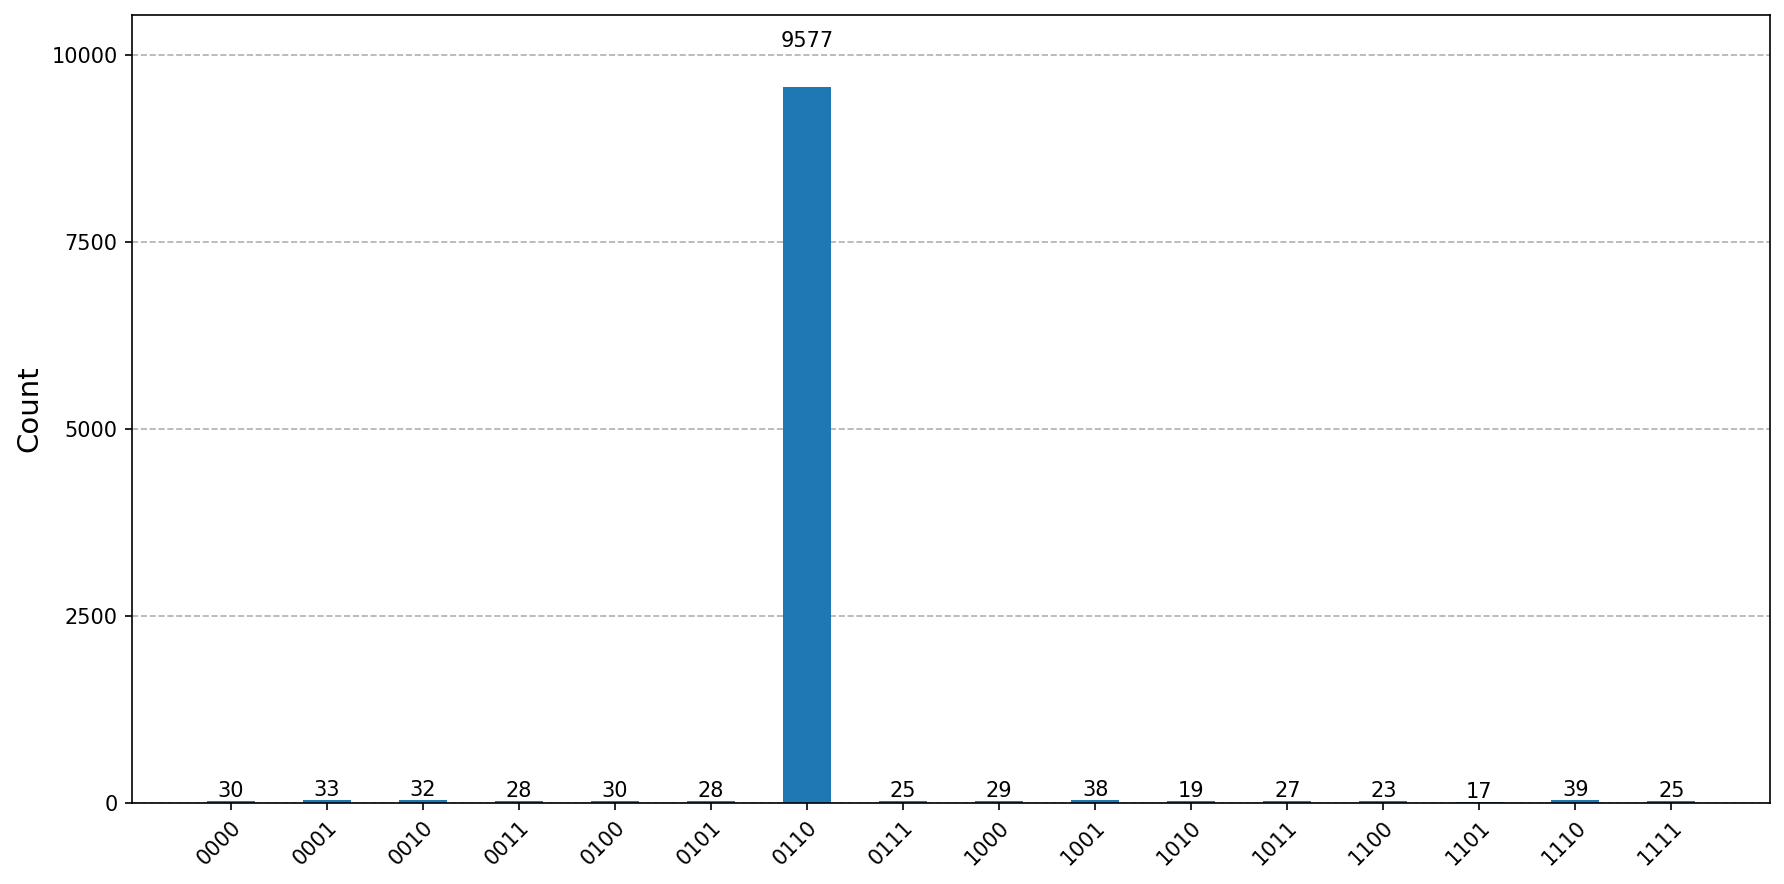
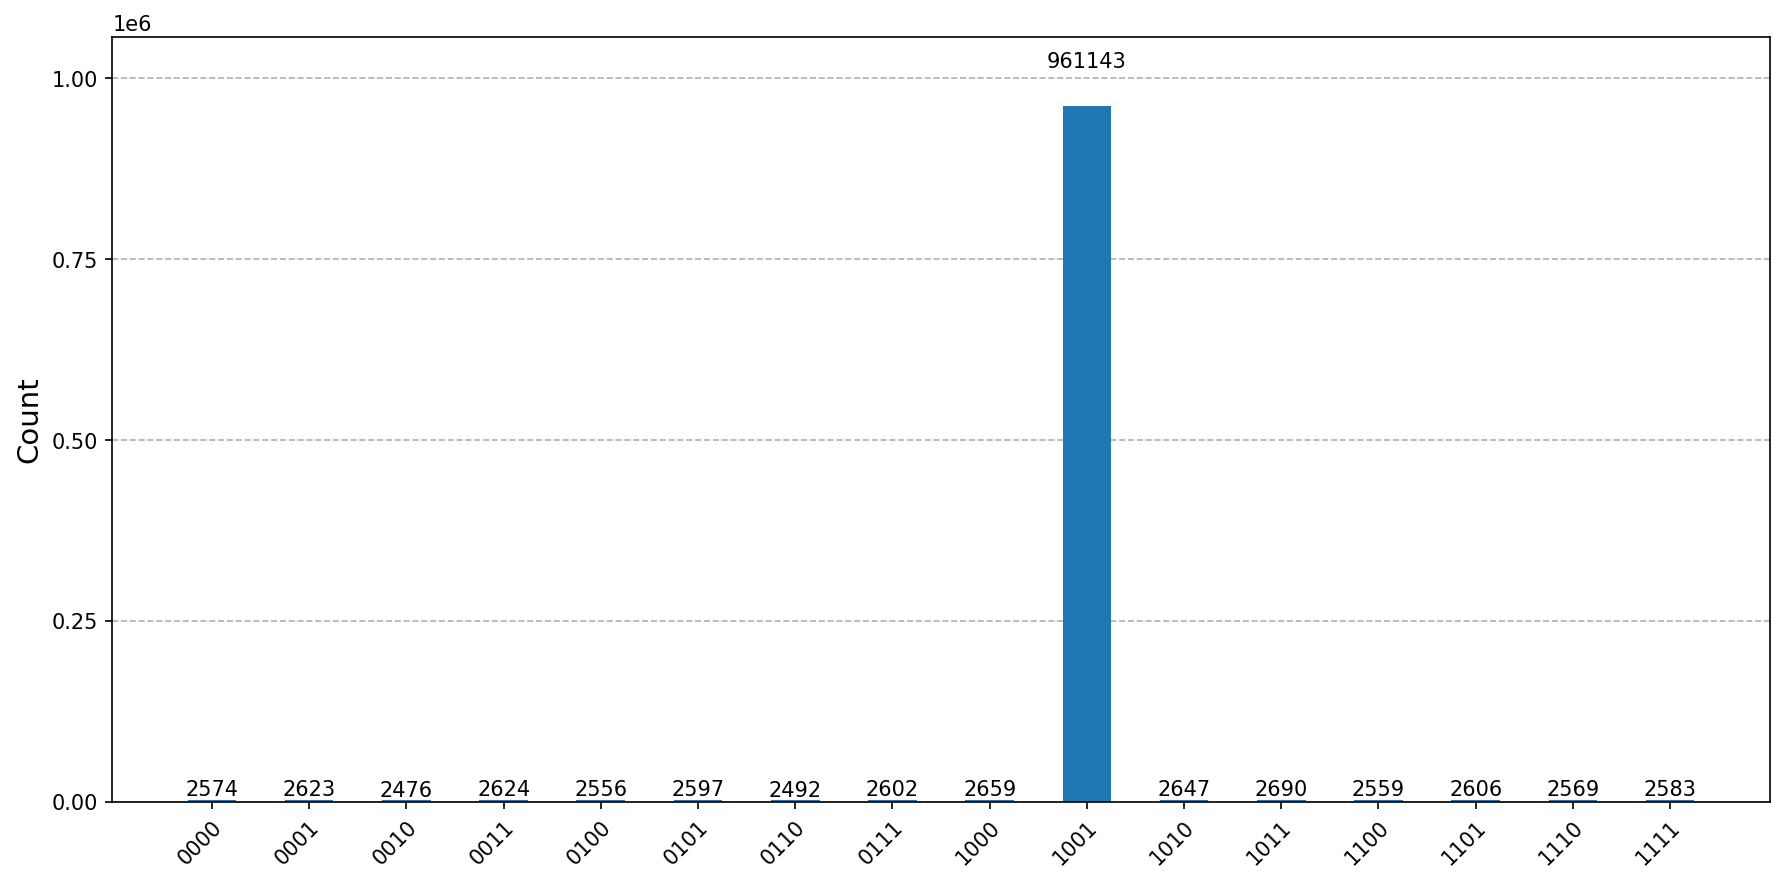
running on ibm

diff --git a/Code/lights_out/quantum/main.py b/Code/lights_out/quantum/main.py
@@ -1,4 +1,5 @@
 import math
+import os
 import numpy as np
 from pathlib import Path
 from qiskit import ClassicalRegister, QuantumCircuit, QuantumRegister, transpile
@@ -7,6 +8,16 @@ import matplotlib.pyplot as plt
 from qiskit.visualization import plot_histogram
 from qiskit.circuit.library import grover_operator
 from qiskit_quantuminspire import cqasm as qi_cqasm
+from qiskit_ibm_runtime import QiskitRuntimeService, Sampler
+from qiskit_ibm_runtime.fake_provider import FakeFez, FakeTorino, FakeMarrakesh
+from qiskit.transpiler import generate_preset_pass_manager
+from dotenv import load_dotenv
+
+# load_dotenv()
+# QiskitRuntimeService.save_account(
+#     token=os.environ["API_KEY"],
+#     instance=os.environ["CRN"],
+# )
 
 
 def export_cqasm(
@@ -71,7 +82,7 @@ def generate_conditions(size):
     return conditions
 
 
-def create_lights_out_circuit(size, initial_state, optimal_num_iterations=3):
+def create_lights_out_circuit(size, initial_state, num_iterations=3):
     """
     Create a quantum circuit for solving Lights Out game using Grover's algorithm.
 
@@ -79,7 +90,7 @@ def create_lights_out_circuit(size, initial_state, optimal_num_iterations=3):
         size: The size of the grid (e.g., 2 for a 2x2 grid, 3 for 3x3, etc.)
         initial_state: List of 0s and 1s representing initial light configuration
                       (0 = light off, 1 = light on)
-        optimal_num_iterations: Number of Grover iterations (default: 3)
+        num_iterations: Number of Grover iterations (default: 3)
 
     Returns:
         Tuple of (quantum_circuit, var_qubits, cbits)
@@ -110,7 +121,7 @@ def create_lights_out_circuit(size, initial_state, optimal_num_iterations=3):
 
     # Create Grover operator
     grover_op = grover_operator(
-        oracle, reflection_qubits=var_qubits, insert_barriers=True
+        oracle, reflection_qubits=var_qubits, insert_barriers=False
     )
 
     # Build the main quantum circuit
@@ -129,7 +140,7 @@ def create_lights_out_circuit(size, initial_state, optimal_num_iterations=3):
     qc.h(output_qubit)
 
     # Apply Grover iterations
-    qc.compose(grover_op.power(optimal_num_iterations), inplace=True)
+    qc.compose(grover_op.power(num_iterations), inplace=True)
 
     # Measure the variable qubits
     qc.measure(var_qubits, cbits)
@@ -156,14 +167,14 @@ def create_circuit_from_matrix(initial_state_matrix):
     initial_state = state_array.flatten()
 
     # Calculate optimal number of Grover iterations
-    # optimal_num_iterations = math.floor(
+    # num_iterations = math.floor(
     #     math.pi / (4 * math.asin(1 / math.sqrt(2 ** (size**2))))
     # )
-    optimal_num_iterations = 3
+    num_iterations = 3
 
     # Create the circuit
     qc, var_qubits, cbits = create_lights_out_circuit(
-        size, initial_state, optimal_num_iterations
+        size, initial_state, num_iterations
     )
 
     # Print circuit statistics
@@ -174,7 +185,7 @@ def create_circuit_from_matrix(initial_state_matrix):
     print(f"Grid size: {size}x{size}")
     print(f"Total qubits required: {total_qubits} ({n} var + {n} temp + 1 output)")
     print(f"Total gates in circuit: {num_gates}")
-    print(f"Optimal Grover iterations: {optimal_num_iterations}")
+    print(f"Grover iterations: {num_iterations}")
 
     return qc, var_qubits, cbits, size
 
@@ -193,6 +204,28 @@ def run_circuit(qc, shots=10000):
     sampler = StatevectorSampler()
     result = sampler.run([qc], shots=shots).result()
     counts = result[0].data.cbits.get_counts()
+
+    return counts
+
+
+def run_on_ibm_simulator(qc, shots=10000):
+    """
+    Run a quantum circuit on an IBM fake simulator
+
+    Args:
+        qc: QuantumCircuit to run
+        shots: Number of measurement shots
+
+    Returns:
+        Measurement counts (dict)
+    """
+    backend = FakeMarrakesh()
+
+    transpiled = transpile(qc, backend=backend, optimization_level=3)
+    print("Transpiled")
+    job = backend.run(transpiled, shots=shots)
+    result = job.result()
+    counts = result.get_counts()
 
     return counts
 
@@ -228,10 +261,38 @@ def plot_top_results(counts, top_n=20, filename="plot"):
     plt.savefig(filename, dpi=150, bbox_inches="tight")
 
 
+def run_on_ibm_hardware(qc, shots=10_000, min_qubits=None):
+    service = QiskitRuntimeService()
+
+    # backend = service.least_busy(
+    #     simulator=False, operational=True, min_num_qubits=min_qubits
+    # )
+    backend = service.backend("ibm_marrakesh")
+    print("Running on " + backend.name)
+    pm = generate_preset_pass_manager(optimization_level=3, backend=backend)
+    isa_circuit = pm.run(qc)
+    isa_circuit.draw(output="mpl", idle_wires=False, style="iqp").savefig(
+        "full-circuit"
+    )
+    sampler = Sampler(mode=backend)
+    sampler.options.default_shots = shots
+    result = sampler.run([isa_circuit]).result()
+    counts = result[0].data.cbits.get_counts()
+
+    return counts
+
+
 # 0 - turned off, 1 - turned on
+# initial_state_matrix = [
+#     [1, 1, 0],
+#     [1, 0, 1],
+#     [1, 0, 1],
+# ]
+# Solution: 101 011 100
+
 initial_state_matrix = [
-    [0, 1],
     [1, 0],
+    [0, 1],
 ]
 
 # Create circuit from matrix
@@ -241,15 +302,17 @@ qc, var_qubits, cbits, size = create_circuit_from_matrix(initial_state_matrix)
 qc.draw("mpl").savefig("circuit")
 
 # Export to cQASM (Quantum Inspire)
-try:
-    export_cqasm(qc, "ciruit.cq", backend_name="Tuna-9")
-    print("Wrote cQASM to ciruit.cq")
-except Exception as exc:
-    print(f"cQASM export failed: {exc}")
+# try:
+#     export_cqasm(qc, "ciruit.cq", backend_name="Tuna-9")
+#     print("Wrote cQASM to ciruit.cq")
+# except Exception as exc:
+#     print(f"cQASM export failed: {exc}")
 
 
 # Run the circuit
-counts = run_circuit(qc, shots=10000)
+# counts = run_on_ibm_simulator(qc, shots=1000)
+# counts = run_on_ibm_hardware(qc)
+counts = run_circuit(qc, shots=1_000_000)
 
 # Plot the top results
 plot_top_results(counts, top_n=20, filename="plot")
